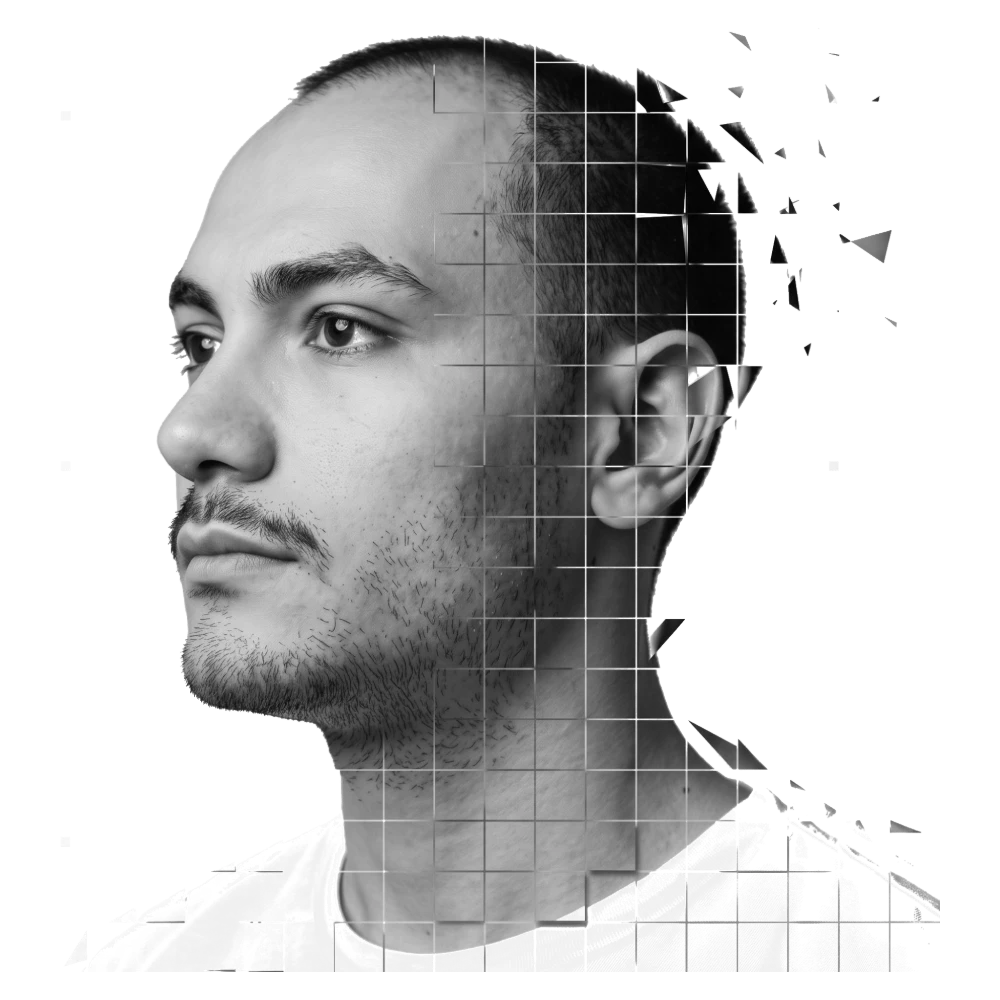
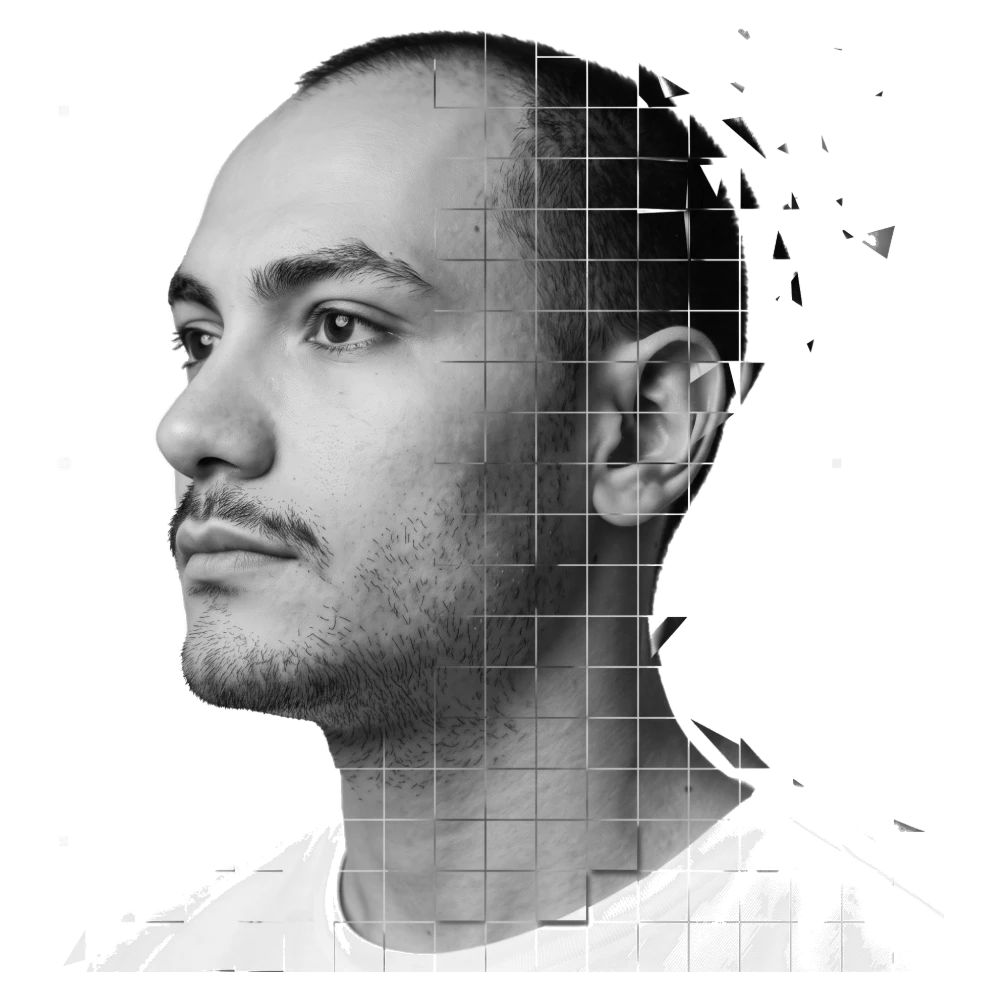
Fix the eye hole and the edge halo, and scale the hero from one number
Cutout, two real bugs:

  The white of the eye is neutral and its luminance sits right on the
  background's, so both the saturation and the luminance test called it
  background and punched a hole through it. Fixed by flooding in from the
  image border: only what the outside can reach is background, so any
  background-coloured area the subject encloses stays opaque.

  The grey rim around the head came from a stepped luminance threshold. A
  pixel that is half black hair and half background lands at luminance 110,
  far enough from 200 that the threshold called it fully opaque, so grey 110
  stayed put and glowed against the dark page. The matte is now linear in
  luminance, so that pixel gets alpha 0.64 and subtracting the background's
  share restores its true dark colour.

  A soft pixel that is not touching the subject is noise or one of the
  photo's faint grid lines, never hair, so those are swept to zero.

Hero layout:

  Splitting the given name never worked. In Persian the two halves are so
  narrow they drifted out from behind the head, and keeping the letters
  joined needed zero-width joiners. The name is now one piece, sitting high
  with the crown of the head rising through the bottom of the letters: still
  behind the portrait, still readable, and nothing language-specific.

  Every size now derives from the portrait's width, including the two font
  sizes, so the name stays about 1.25x the head at every width in both
[…]

diff --git a/components/Hero.module.css b/components/Hero.module.css
@@ -8,13 +8,17 @@
 /* ── صحنه: نام، پرتره و نشان روی هم ──────────────────────────────────── */
 
 .stage {
+  /* همهٔ اندازههای صحنه از یک عدد میآیند: پهنای پرتره. اندازهٔ حروف هم از همین
+     ساخته میشود، پس نام همیشه به همان نسبت از سر پهنتر میماند — در هر زبان،
+     روی هر صفحه. ۶۶vw در فهرست است تا روی موبایل تصویر از دو طرف بیرون نزند. */
+  --portrait: min(50vh, 20rem, 66vw);
+
   position: relative;
   inline-size: 100%;
   max-inline-size: 46rem;
-  /* ارتفاع از پنجره میآید، نه از عرض — وگرنه روی نمایشگر پهن، متن زیر خط دید میافتد. */
-  block-size: min(56vh, 26rem);
-  display: grid;
-  place-items: center;
+  /* کمی بلندتر از پرتره، تا نام در نوار خالیِ بالا بنشیند و بالای جمجمه از
+     پایینِ حرفها بیرون بیاید. */
+  block-size: calc(var(--portrait) * 1.16);
   margin-block-end: var(--space-8);
 }
 
@@ -22,9 +26,8 @@
   position: absolute;
   inset: 0;
   margin: 0;
-  font-size: clamp(3rem, 14vw, 10.5rem);
   font-weight: 700;
-  line-height: 0.92;
+  line-height: 0.88;
   pointer-events: none;
 }
 
@@ -34,27 +37,38 @@
   white-space: nowrap;
 }
 
-/* نام کوچک: دو نیمه در دو لبه، با سر در میانشان. */
-.given {
-  display: flex;
-  justify-content: space-between;
-  inline-size: 74%;
-  margin-inline: auto;
-}
-
-/* نام کوچک پشت تصویر مینشیند، نام خانوادگی رویش — همان چیدمان طرح. */
+/* نام کوچک پشت تصویر مینشیند و نام خانوادگی رویش — همان چیدمان طرح.
+   نام یکتکه است و بالای جمجمه از پایینِ حرفها بالا میآید: هم پشت عکس دیده
+   میشود، هم کامل خوانده میشود، و در فارسی هم حرفی از حرف دیگر جدا نمیافتد. */
 .given {
   z-index: 1;
-  inset-block-start: 1%;
+  inset-block-start: 0;
   inset-inline: 0;
+  text-align: center;
+  /* ضریبها از اندازهگیریِ واقعیِ همین دو کلمه در همین دو فونت درآمدهاند:
+     «Peiman» به ازای هر پیکسلِ فونت ۳٫۳۶ پیکسل پهنا میگیرد و «Asgari» ۲٫۸۳.
+     هدف این است که نام کوچک حدود ۱٫۲۵ برابرِ سر باشد و نام خانوادگی ۱٫۳ برابر. */
+  font-size: calc(var(--portrait) * 0.372);
 }
 
 .family {
   z-index: 3;
-  inset-block-end: 3%;
-  inset-inline-end: 4%;
+  inset-block-end: 2%;
+  inset-inline: 0;
+  text-align: center;
+  font-size: calc(var(--portrait) * 0.46);
   /* کمی درخشش تا روی تصویر هم خوانا بماند. */
   text-shadow: 0 0 40px rgb(0 0 0 / 0.28);
+}
+
+/* حروف فارسی باریکترند: «پیمان» با همان اندازه دوسومِ «Peiman» پهنا میگیرد و
+   «عسگری» برعکس، از «Asgari» پهنتر است. پس هر کدام ضریب خودش را دارد. */
+:root[lang="fa"] .given {
+  font-size: calc(var(--portrait) * 0.552);
+}
+
+:root[lang="fa"] .family {
+  font-size: calc(var(--portrait) * 0.432);
 }
 
 :root[data-theme="light"] .family,
@@ -65,19 +79,20 @@
 .portrait {
   position: absolute;
   z-index: 2;
-  inset-block: 0;
+  /* به کفِ صحنه چسبیده است، پس نوار خالیِ بالا برای نام میماند. */
+  inset-block-end: 0;
   inset-inline: 0;
   margin-inline: auto;
-  block-size: 100%;
-  aspect-ratio: 1 / 1;
+  inline-size: var(--portrait);
+  block-size: var(--portrait);
 }
 
 .badge {
   position: absolute;
   z-index: 4;
-  inset-block-end: -2%;
-  /* سمت مقابلِ نام خانوادگی مینشیند، همانطور که در طرح بود. */
-  inset-inline-start: 2%;
+  /* بالاتر از نام خانوادگی و روی لبهٔ چپِ پرتره — نه روی حرفها، نه بیرون تصویر. */
+  inset-block-end: 41%;
+  inset-inline-start: calc(50% - var(--portrait) * 0.55);
 }
 
 /* ── متن زیر صحنه ────────────────────────────────────────────────────── */
@@ -141,10 +156,7 @@
   }
 
   .stage {
-    max-inline-size: 50rem;
-  }
-
-  .name {
-    font-size: clamp(5rem, 10vw, 10.5rem);
+    max-inline-size: 52rem;
+    --portrait: min(56vh, 26rem);
   }
 }

diff --git a/components/Hero.tsx b/components/Hero.tsx
@@ -25,11 +25,9 @@ export function Hero({ t }: { t: Content }) {
       {/* سه لایه روی هم: نام کوچک، پرتره، نام خانوادگی. ترتیبشان در CSS با z-index است. */}
       <div className={styles.stage}>
         <motion.h1 className={styles.name} {...rise(0)}>
-          {/* دو تکه، چسبیده به دو لبه؛ سر در فاصلهٔ میانشان مینشیند. */}
-          <span className={styles.given}>
-            <span>{t.hero.givenStart}</span>
-            <span>{t.hero.givenEnd}</span>
-          </span>
+          {/* نام کوچک یکتکه میماند و بالای جمجمه از میانش بالا میآید؛ تکهکردنِ
+              کلمه در فارسی همیشه یا شکاف میساخت یا حرفها را از هم میبُرید. */}
+          <span className={styles.given}>{t.hero.given}</span>
           <span className={styles.family}>{t.hero.family}</span>
         </motion.h1>
 

diff --git a/content/fa.ts b/content/fa.ts
@@ -29,8 +29,7 @@ export const fa: Content = {
     photoAlt: "پیمان عسگری",
     photoPlaceholder: "جای عکس شخصی",
     name: "پیمان عسگری",
-    givenStart: "پیم",
-    givenEnd: "ان",
+    given: "پیمان",
     family: "عسگری",
     badge: "peiman asgari portfolio",
     title: "روانشناس، طراح و توسعهدهندهٔ وب و موبایل",

diff --git a/components/SpinningBadge.module.css b/components/SpinningBadge.module.css
@@ -14,7 +14,9 @@
   inset: 0;
   inline-size: 100%;
   block-size: 100%;
-  fill: var(--text-muted);
+  /* روی عکس میافتد، پس باید از رنگ متن کمکی روشنتر باشد. */
+  fill: var(--text);
+  opacity: 0.82;
   font-size: 10px;
   text-transform: uppercase;
   animation: spin 22s linear infinite;

diff --git a/content/en.ts b/content/en.ts
@@ -30,8 +30,7 @@ export const en = {
     photoAlt: "Peiman Asgari",
     photoPlaceholder: "Your photo goes here",
     name: "Peiman Asgari",
-    givenStart: "Pei",
-    givenEnd: "man",
+    given: "Peiman",
     family: "Asgari",
     badge: "peiman asgari portfolio",
     title: "Psychologist, designer, web & mobile developer",
